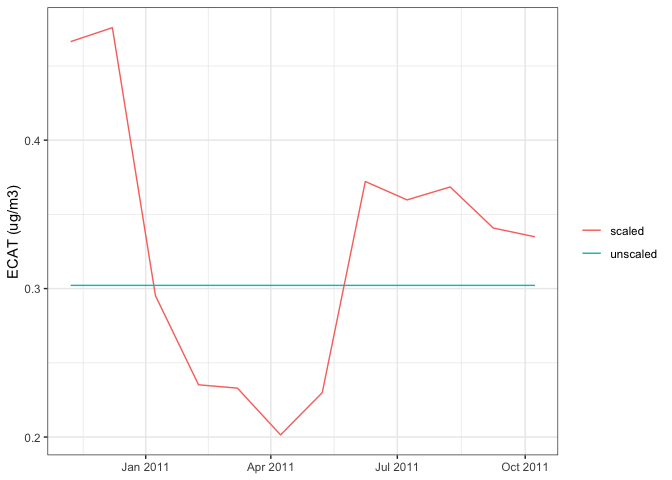
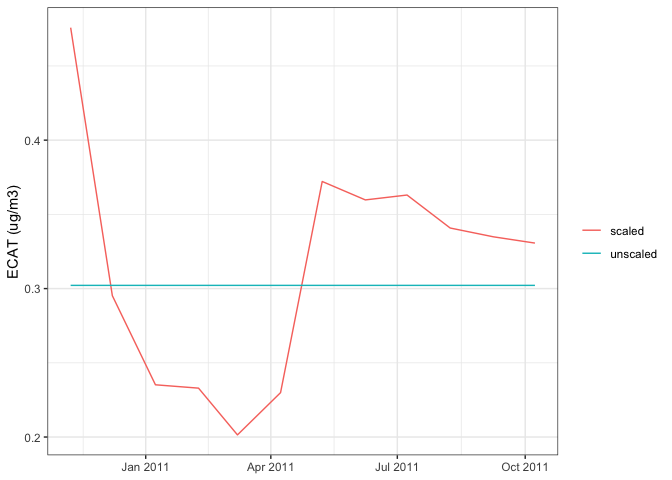
update readme with start_date/end_date example

diff --git a/README.md b/README.md
@@ -31,9 +31,11 @@ annual average is scaled to monthly averages.
 
 ## Reference
 
-reference some paper of Pat’s about the model… ?
-
-reference the paper discussing the temporal adjustment method… ?
+Ryan, P.H., G.K. LeMasters, P. Biswas, L. Levin, S. Hu, M. Lindsey, D.I.
+Bernstein, J. Lockey, M. Villareal, G.K. Khurana Hershey, and S.A.
+Grinshpun. 2007. “A Comparison of Proximity and Land Use Regression
+Traffic Exposure Models and Wheezing in Infants.” Environmental Health
+Perspectives 115(2): 278-284. <https://doi.org/10.1289/ehp.9480>
 
 ## Installation
 
@@ -62,44 +64,59 @@ d <- tibble::tribble(
     799698L, -84.41395064, 39.18322447
   )
 
-visit_dates <- c("2010-01-08", "2012-06-08", "2010-01-09", "2015-04-09", "2010-01-10")
-visit_dates <- as.Date(visit_dates)
+my_dates <- data.frame(start_date = as.Date(c("2010-01-08", "2012-06-08", "2010-01-09", "2015-04-09", "2010-01-10")),
+                       end_date = as.Date(c("2010-02-08", "2012-07-08", "2010-02-09", "2015-05-09", "2010-02-10")))
 
 d %>% 
   mutate(ecat = calculate_ecat(. , return.LU.vars = FALSE), 
-         date = visit_dates,
-         scaling_factors = calculate_scaling_factors(date, days_prior = 30), 
+         scaling_factors = calculate_scaling_factors(my_dates), 
          scaled_ecat = ecat * scaling_factors)
-#> # A tibble: 5 x 7
-#>       id   lon   lat  ecat date       scaling_factors scaled_ecat
-#>    <int> <dbl> <dbl> <dbl> <date>               <dbl>       <dbl>
-#> 1 809089 -84.7  39.2 0.302 2010-01-08           0.668       0.202
-#> 2 813233 -84.5  39.1 0.740 2012-06-08           1.18        0.876
-#> 3 814881 -84.5  39.3 0.479 2010-01-09           0.708       0.339
-#> 4 799697 -84.4  39.2 0.355 2015-04-09           0.728       0.259
-#> 5 799698 -84.4  39.2 0.339 2010-01-10           0.708       0.240
+#> # A tibble: 5 x 6
+#>       id   lon   lat  ecat scaling_factors scaled_ecat
+#>    <int> <dbl> <dbl> <dbl>           <dbl>       <dbl>
+#> 1 809089 -84.7  39.2 0.302           0.989       0.299
+#> 2 813233 -84.5  39.1 0.740           1.05        0.779
+#> 3 814881 -84.5  39.3 0.479           0.945       0.452
+#> 4 799697 -84.4  39.2 0.355           1.09        0.388
+#> 5 799698 -84.4  39.2 0.339           0.945       0.320
 ```
 
 ### Example 2: Using the `calculate_scaled_ecat()` wrapper function to automatically apply scaling factors to ECAT estimates.
+
+A common use case is calculating monthly exposures. For example, the
+data below represents a common structure. There are 2 unique ids, and
+the locations remain constant while the dates increase by one month.
 
 ``` r
 d <- tibble::tribble(
   ~id,         ~lon,        ~lat,        ~date,
     809089L, -84.69127387, 39.24710734, as.Date("2010-01-08"),
-    809089L, -84.69127387, 39.24710734, as.Date("2012-06-08"),
-    809089L, -84.69127387, 39.24710734, as.Date("2015-04-09"),
+    809089L, -84.69127387, 39.24710734, as.Date("2010-02-08"),
+    809089L, -84.69127387, 39.24710734, as.Date("2010-03-08"),
     799697L, -84.41741798, 39.18541228, as.Date("2010-01-10"),
-    799697L, -84.41741798, 39.18541228, as.Date("2012-12-03")
+    799697L, -84.41741798, 39.18541228, as.Date("2012-02-10")
   )
+```
 
+We want to scale the ecat exposures between these dates, but we need
+`start_date` and `end_date` columns.
+
+``` r
+d <- d %>% 
+  rename(start_date = date) %>% 
+  group_by(id) %>% 
+  mutate(end_date = lead(start_date)) %>% 
+  filter(!is.na(end_date)) %>% 
+  ungroup()
+```
+
+``` r
 d %>% 
-  mutate(scaled_ecat = calculate_scaled_ecat(., days_prior = 30))
-#> # A tibble: 5 x 5
-#>       id   lon   lat date       scaled_ecat
-#>    <int> <dbl> <dbl> <date>           <dbl>
-#> 1 809089 -84.7  39.2 2010-01-08       0.202
-#> 2 809089 -84.7  39.2 2012-06-08       0.358
-#> 3 809089 -84.7  39.2 2015-04-09       0.220
-#> 4 799697 -84.4  39.2 2010-01-10       0.251
-#> 5 799697 -84.4  39.2 2012-12-03       0.530
+  mutate(scaled_ecat = calculate_scaled_ecat(.))
+#> # A tibble: 3 x 6
+#>       id   lon   lat start_date end_date   scaled_ecat
+#>    <int> <dbl> <dbl> <date>     <date>           <dbl>
+#> 1 809089 -84.7  39.2 2010-01-08 2010-02-08       0.299
+#> 2 809089 -84.7  39.2 2010-02-08 2010-03-08       0.264
+#> 3 799697 -84.4  39.2 2010-01-10 2012-02-10       0.370
 ```
